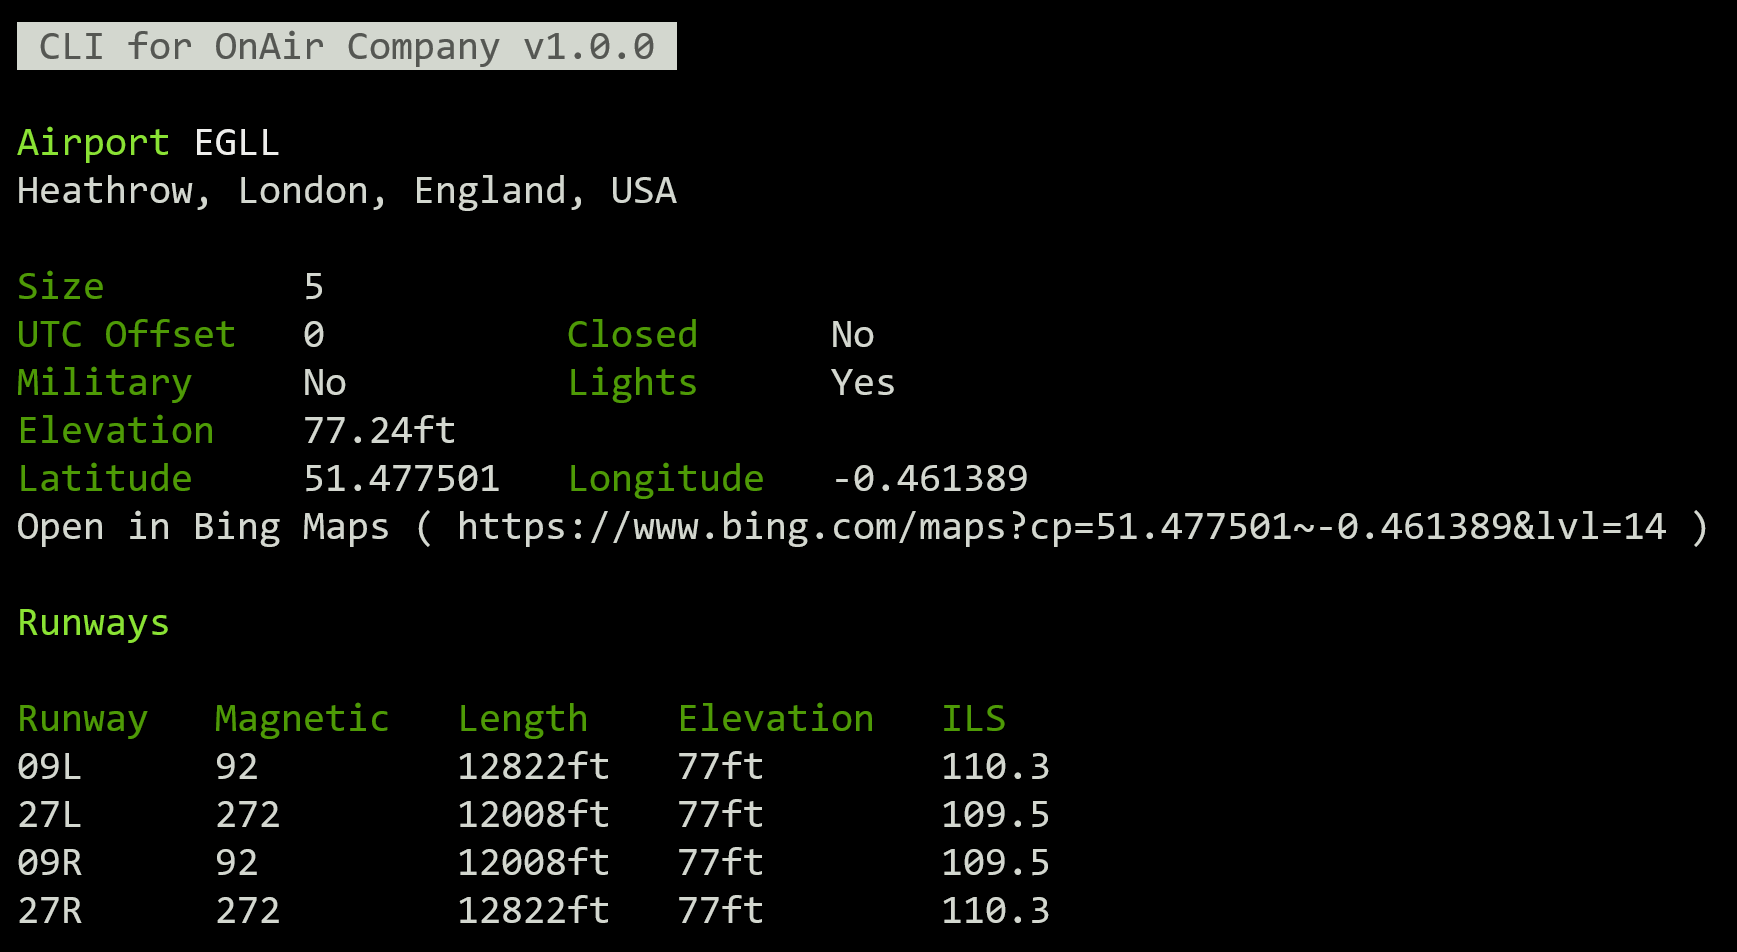
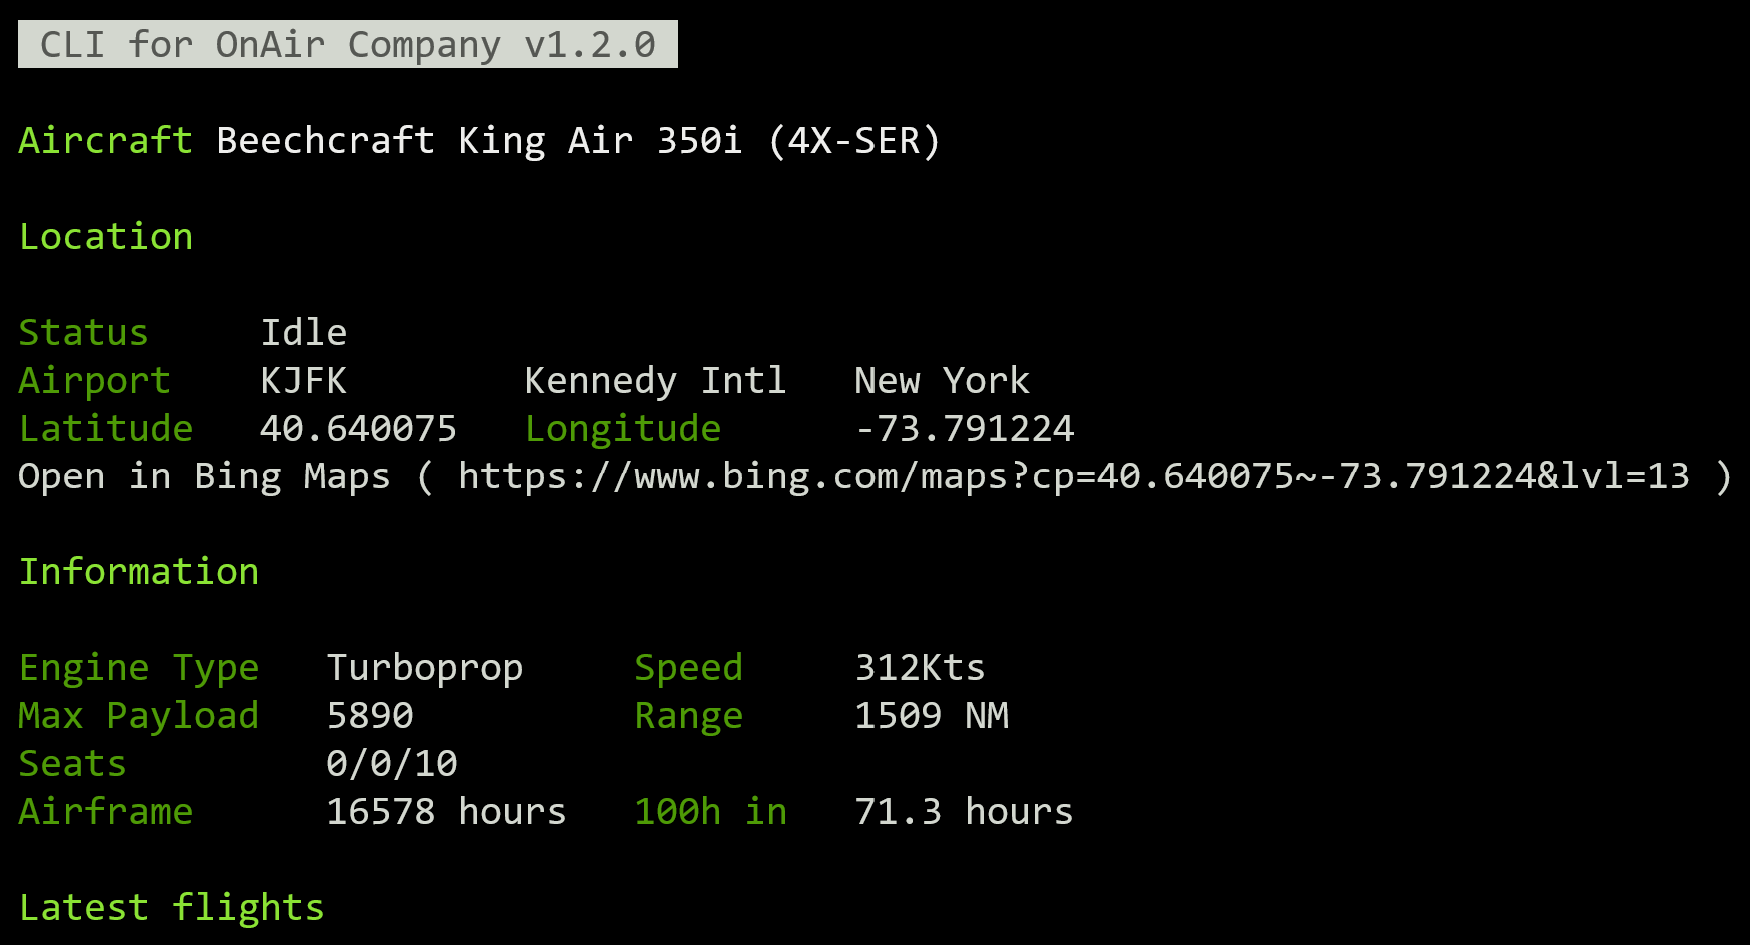
Updated readme and screenshot

diff --git a/README.md b/README.md
@@ -1,6 +1,8 @@
 # CLI for OnAir Airline Manager
 
-A CLI to access information from [OnAir Company](https://onair.company), because no-one asked for it! Very beta. _Requires an active OnAir Company subscription and API key_.
+A CLI to display information such as flights and aircraft from [OnAir Company](https://onair.company) an addictive virtual airline for flight simulator games such as Microsoft Flight Simulator and X-Plane! 
+
+_Requires an active OnAir Company subscription and API key_.
 
 <img src="./assets/screenshot.png" width="80%">
 
@@ -14,29 +16,87 @@ Run
 
 or run without an install via npx
 
-`npx onair-cli`
+`npx onair-cli --help`
 
-All commands require an API key found in the bottom left of the settings page in the OnAir client as well as the World name (cumulus/stratus/thunder). 
+## Setup
+
+For ease of use it is recommend to save your OnAir credentials
+
+`onair save-creds --api-key=[API_KEY] --world=[WORLD] --companyId=[COMPANY_ID]`
+
+Your OnAir API key and Company ID are found in the bottom left of the settings page in the OnAir client. The world name is 'cumulus', 'stratus', or 'thunder'. Use 'stratus' for Clear Sky server.
+
+These credentials can also be passed into each command if you don't want them saved locally.
 
 ## Commands
+
+### Aircraft
+
+Show details on an aircraft, including it's recent flights.
+
+`onair-cli aircraft <aircraftId>`
+
+'aircraftId' is a 32 character UUID available from the aircraft details page in the OnAir client.
 
 ### Airport
 
 Get information about an airport
 
-`onair-cli --api-key=[API_KEY] --world=[WORLD] airport [ICAO] [options]`
+`onair-cli airport <ICAO> [options]`
 
-Optionally show airport parking spot information with `--show-parking-spots`
+Optionally show airport parking spot information with `--parking-spots`
 
 ### Company
 
-Get information on your company, your Company ID is also found in the bottom left of the settings page.
+Get summary information on your company
 
-`onair-cli --api-key=[API_KEY] --world=[WORLD] company [COMPANY_ID]`
+`onair-cli company`
+
+### Company Fleet
+
+List details of your company's fleet of aircraft.
+
+`onair-cli company fleet`
+
+### Company Flights
+
+List your company's aircraft flights, this supports pagination.
+
+`onair-cli company flights`
+
+`onair-cli company flights -p=2`
+
+### Company FBOs
+
+List your company FBOs, including fuel, fuel selling status and tied down/hanger space.
+
+`onair-cli company fbos`
+
+### Flights
+
+Show flights for an aircraft, this supports pagination.
+
+`onair-cli flights <aircraftId>`
+
+`onair-cli flights <aircraftId> -p=2`
+
+'aircraftId' is a 32 character UUID available from the aircraft details page in the OnAir client.
+
+### Save Credentials
+
+`onair set-creds --apiKey=[API_KEY] --world=[WORLD] --companyId=[COMPANY_ID]`
+
+Your OnAir API key and Company ID are found in the bottom left of the settings page in the OnAir client. The world name is 'cumulus', 'stratus', or 'thunder'.
+
+### Delete Credentials
+
+`onair-cli delete-creds`
+
+Remove your locally stored OnAir credentials.
 
 ## Notes
 
-This package is not affiliated to or endored by OnAir Company. OnAir Airline Manager &copy; 2021 OnAir Company.
+This application is not affiliated with or endored by OnAir Company. OnAir Airline Manager &copy; OnAir Company.
 
 ## License
 [MIT](https://choosealicense.com/licenses/mit/)
